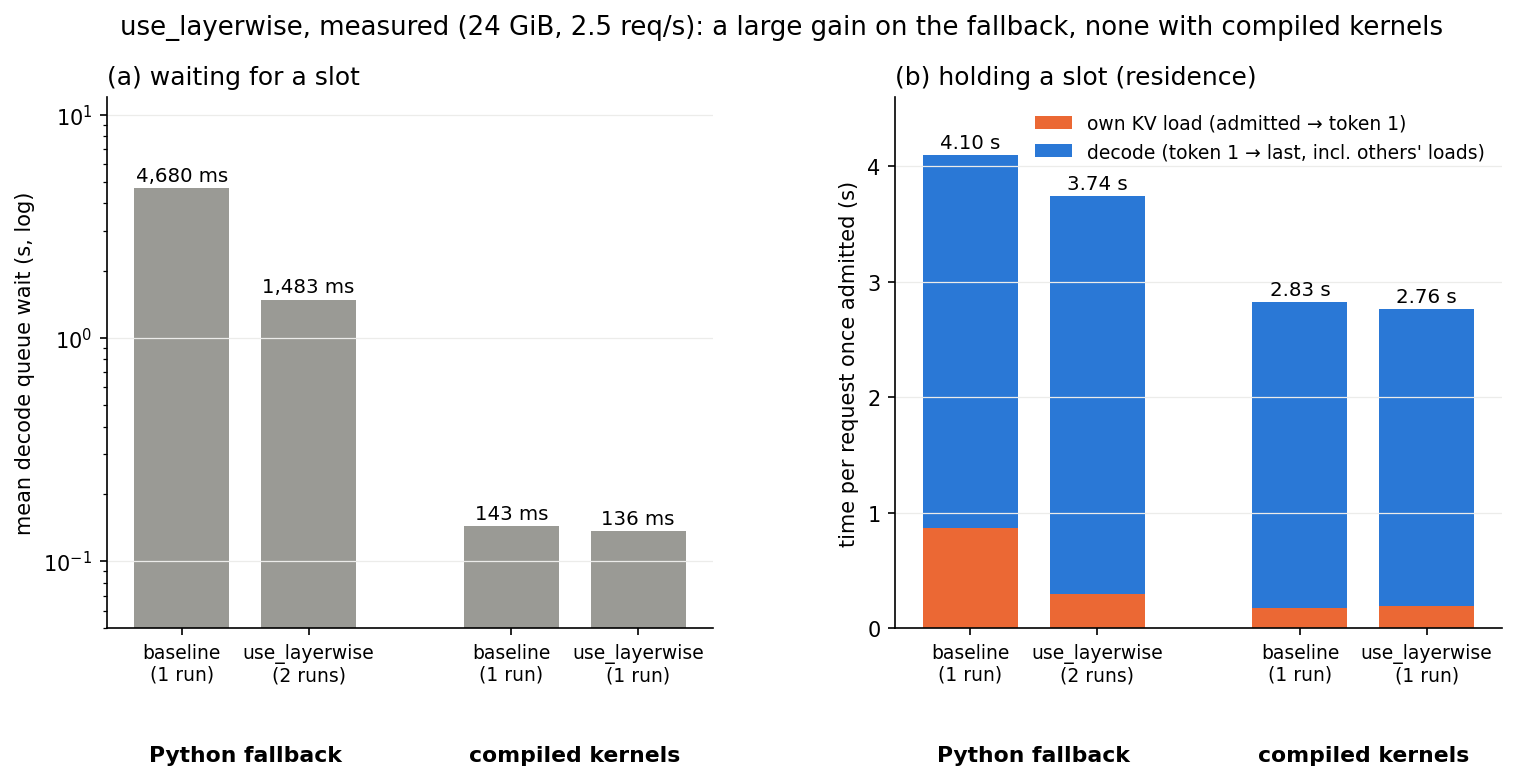
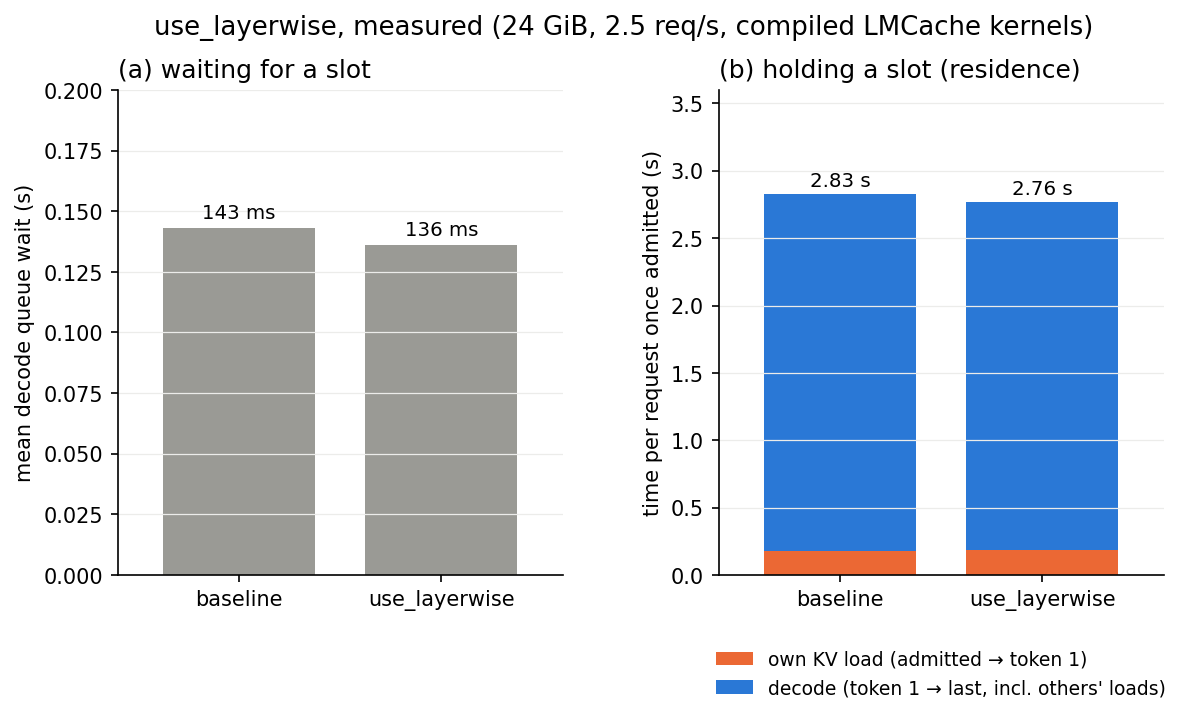
§6.2: compiled-only measured layerwise figure, no fallback comparison

diff --git a/scripts/plots/plot_kv_layerwise_measured.py b/scripts/plots/plot_kv_layerwise_measured.py
@@ -1,6 +1,6 @@
 #!/usr/bin/env python3
-"""KV-slot study, report §6.2: what `use_layerwise` measurably changes, per LMCache copy
-path, at 24 GiB / 2.5 req/s (means over 300 requests, from the engine traces).
+"""KV-slot study, report §6.2: what `use_layerwise` measurably changes with LMCache's
+compiled kernels, at 24 GiB / 2.5 req/s (means over 300 requests, from the engine traces).
 (a) decode queue wait; (b) a request's time on the decode engine once admitted:
 own KV load (admitted → token 1) + decode (token 1 → last, incl. stalls from others' loads).
 
@@ -17,8 +17,7 @@ import numpy as np
 REPO = Path(__file__).resolve().parent.parent.parent
 TL = REPO / "output" / "kv_vram" / "timeline"
 C_Q, C_L, C_D = "#9a9a95", "#eb6834", "#2a78d6"
-ARMS = [("Python fallback", ["kv_base_b24_q2.5_tr"], ["kv_lw_b24_q2.5_tr", "kv_lw_b24_q2.5_tr_r2"]),
-        ("compiled kernels", ["kv_cops_b24_q2.5_tr_r2"], ["kv_cops_lw_b24_q2.5_tr"])]
+ARMS = [("baseline", ["kv_cops_b24_q2.5_tr_r2"]), ("use_layerwise", ["kv_cops_lw_b24_q2.5_tr"])]
 
 
 def mean_split(names):
@@ -28,23 +27,18 @@ def mean_split(names):
             (("queue", "wait"), ("load", "load"), ("decode", "decode"))}
 
 
-fig, axes = plt.subplots(1, 2, figsize=(12, 4.6), gridspec_kw={"wspace": 0.3})
-xs, labs, vals = [], [], []
-x = 0
-for path, base, lw in ARMS:
-    for arm, names in (("baseline", base), ("use_layerwise", lw)):
-        xs.append(x); labs.append(f"{arm}\n({len(names)} run{'s' if len(names) > 1 else ''})")
-        vals.append(mean_split(names)); x += 1
-    x += 0.6
-centers = [(xs[0] + xs[1]) / 2, (xs[2] + xs[3]) / 2]
+fig, axes = plt.subplots(1, 2, figsize=(9, 4.2), gridspec_kw={"wspace": 0.35})
+xs = [0, 1]
+labs = [a for a, _ in ARMS]
+vals = [mean_split(n) for _, n in ARMS]
 
 ax = axes[0]
 q = [v["queue"] for v in vals]
 ax.bar(xs, q, color=C_Q, width=0.75)
 for xi, v in zip(xs, q):
-    ax.text(xi, v * 1.08, f"{v * 1e3:,.0f} ms", ha="center", fontsize=9.5)
-ax.set_yscale("log"); ax.set_ylim(0.05, 12)
-ax.set_ylabel("mean decode queue wait (s, log)")
+    ax.text(xi, v + 0.004, f"{v * 1e3:,.0f} ms", ha="center", fontsize=9.5)
+ax.set_ylim(0, 0.2)
+ax.set_ylabel("mean decode queue wait (s)")
 ax.set_title("(a) waiting for a slot", loc="left")
 
 ax = axes[1]
@@ -53,19 +47,16 @@ ax.bar(xs, ld, color=C_L, width=0.75, label="own KV load (admitted → token 1)"
 ax.bar(xs, dc, bottom=ld, color=C_D, width=0.75, label="decode (token 1 → last, incl. others' loads)")
 for xi, a, b in zip(xs, ld, dc):
     ax.text(xi, a + b + 0.06, f"{a + b:.2f} s", ha="center", fontsize=9.5)
-ax.set_ylim(0, 4.6)
+ax.set_ylim(0, 3.6)
 ax.set_ylabel("time per request once admitted (s)")
 ax.set_title("(b) holding a slot (residence)", loc="left")
-ax.legend(loc="upper right", frameon=False, fontsize=9)
+ax.legend(loc="upper center", bbox_to_anchor=(0.5, -0.12), frameon=False, fontsize=9)
 
 for ax in axes:
-    ax.set_xticks(xs); ax.set_xticklabels(labs, fontsize=9)
+    ax.set_xticks(xs); ax.set_xticklabels(labs, fontsize=10)
+    ax.set_xlim(-0.6, 1.6)
     ax.spines[["top", "right"]].set_visible(False)
     ax.grid(axis="y", color="#ececea", lw=0.6)
-    for c, (path, _, _) in zip(centers, ARMS):
-        ax.text(c, -0.25, path, transform=ax.get_xaxis_transform(), ha="center", fontsize=10.5,
-                fontweight="bold")
-fig.suptitle("use_layerwise, measured (24 GiB, 2.5 req/s): a large gain on the fallback, none with compiled kernels",
-             fontsize=12.5, y=1.0)
+fig.suptitle("use_layerwise, measured (24 GiB, 2.5 req/s, compiled LMCache kernels)", fontsize=12.5, y=1.0)
 fig.savefig(REPO / "figures" / "kv_layerwise_measured.png", dpi=150, bbox_inches="tight")
 print("-> figures/kv_layerwise_measured.png")

diff --git a/reports/report_kv_slots.md b/reports/report_kv_slots.md
@@ -265,22 +265,14 @@ what must stay resident.
 ### 6.2 LMCache's load-path options
 
 **`use_layerwise`** splits the one-time load at admission into per-layer pieces, hoping to
-overlap copy with compute. Measured at 24 GiB / 2.5 req/s, on both copy paths:
+overlap copy with compute. Measured at 24 GiB / 2.5 req/s:
 
 ![layerwise measured](../figures/kv_layerwise_measured.png)
 
-- **Fallback: a large gain.** Queue 4,680 → 1,483 ms, own load 0.87 → 0.30 s, residence
-  4.10 → 3.74 s. The per-layer retriever never hits the whole-request L1 staging failures
-  (3,360 → 0 per run), so a load takes the bare copy time.
-- **Compiled kernels: no gain.** Queue 143 → 136 ms, own load 0.18 → 0.19 s, residence
-  2.83 → 2.76 s. All of these are within run-to-run noise (one layerwise run).
-
-| compiled kernels | baseline (2 runs) | + layerwise (1 run) |
-|---|---|---|
-| decode queue wait | 143 / 143 ms | 136 ms |
-| TPOT (end-user) p50 | 24.2 / 24.3 ms | 23.5 ms |
-| excess step time per residence | 0.67 s | 0.70 s |
-| preemptions | 7 / 8 | 4 |
+No gain: queue 143 → 136 ms, own load 0.18 → 0.19 s, residence 2.83 → 2.76 s, all within
+run-to-run noise. The direct check of overlap is the time that load-carrying steps add to
+a request's residence: 0.67 s without, 0.70 s with layerwise. If the copies overlapped the
+forward, this would shrink.
 
 Why there is no overlap: the admitting step, drawn to scale from the measured copy
 (115 ms) and forward (14 ms):
